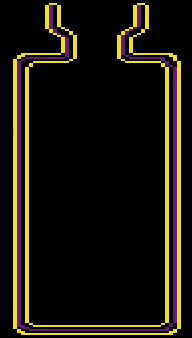
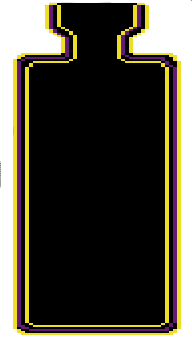
glitched path throwing added

Changed region(s): [[0.0, 0.0, 1.0, 1.0]]

diff --git a/js/pill.js b/js/pill.js
@@ -8,23 +8,31 @@ class pill {
         this.canMove = true;
         let firstPreviewPillPart = document.getElementById("first-part");
         let secondPreviewPillPart = document.getElementById("second-part");
+        
         firstPreviewPillPart.style.backgroundImage="url('gfx/game-elements/"+this.colors[0]+"_left.png')";
         secondPreviewPillPart.style.backgroundImage="url('gfx/game-elements/"+this.colors[1]+"_right.png')";
+    
     } 
     generate(){
+            gameField.changePillElementsColor(this);
+            gameField.createFallingInterval(config.speed, this);
+    } 
+    throw(){
         let pill = document.getElementById("pill");
+        let path =[[-25,25],[-25,25],[-25,25],[-25,25],[-25,0],[-25,0],[-25,0],[-25,0],[-25,0],[-25,0],[0,-25],[0,-25],[0,-25],[0,-25]];
+        let counter = 0;
         let throwingInterval = setInterval(()=>{
-            let parsetLeftValue = parseInt(pill.style.left)
-            console.log(parsetLeftValue);
-            pill.style.left = parsetLeftValue-30+"px"
-            console.log(pill.style.left);
-            if(parsetLeftValue<=-190){
+            let parseTopValue = parseInt(pill.style.top);
+            let parseLeftValue = parseInt(pill.style.left);
+            pill.style.left = parseLeftValue+path[counter][0]+"px";
+            pill.style.top = parseTopValue-path[counter][1]+"px";
+            counter++;
+            if(counter==path.length){
+                    gameField.currentPill.generate();
+                    pill.style.left ="26px";
                 clearInterval(throwingInterval);
             }
-        },30);
-        gameField.changePillElementsColor(this);
-        gameField.createFallingInterval(config.speed, this);
-        pill.style.left ="20px"
+        },100);
     }
     fallOnce(){
         gameField.changePillElementsColor(this, true);

diff --git a/js/gameField.js b/js/gameField.js
@@ -21,7 +21,7 @@ var gameField = {
                 case "ArrowDown": 
                 case "s":
                     gameField.currentPill.canMove = false;
-                    gameField.createFallingInterval(25, gameField.currentPill);
+                    gameField.createFallingInterval(25);
                     break;
                 case "ArrowLeft":
                 case "a":
@@ -99,8 +99,10 @@ var gameField = {
             this.virusOnMap.push(newVirus);
         }
         this.currentPill = new pill();
-        this.waitingPill = new pill();
-        this.currentPill.generate();
+        this.currentPill.throw();
+        setTimeout(()=>{
+            this.waitingPill = new pill();
+        },1500);  
     },
      createFallingInterval(time){
         clearInterval(gameField.fallingInterval)
@@ -119,9 +121,14 @@ var gameField = {
                 if(currentPill.row==0){
                     gameField.gameOver();
                 }else{
-                    gameField.currentPill= gameField.waitingPill;
-                    gameField.waitingPill=new pill();
+                    gameField.currentPill = gameField.waitingPill;
+                    gameField.currentPill.throw();
+                    setTimeout(()=>{
+                        gameField.waitingPill = new pill();
+                     },1500)
+                /*    gameField.currentPill.throw();
                     gameField.currentPill.generate();
+                    */
                 }    
             }        
         },time);

diff --git a/index.html b/index.html
@@ -23,7 +23,7 @@
         </div>
         <div id="playground">
             <div id="doctor">
-                <div id="pill" style="left: 20px; top:15px;">
+                <div id="pill" style="left: 26px; top:25px;">
                     <div id="first-part" class="pill-part"></div>
                     <div id="second-part" class="pill-part"></div>
                 </div>

diff --git a/style.css b/style.css
@@ -230,8 +230,8 @@ body{
     z-index: 1;
 }
 .pill-part{
-    width: 30px;
-    height: 30px;
+    width: 25px;
+    height: 25px;
     background-repeat: no-repeat;
     float: left;
     background-size: cover;
